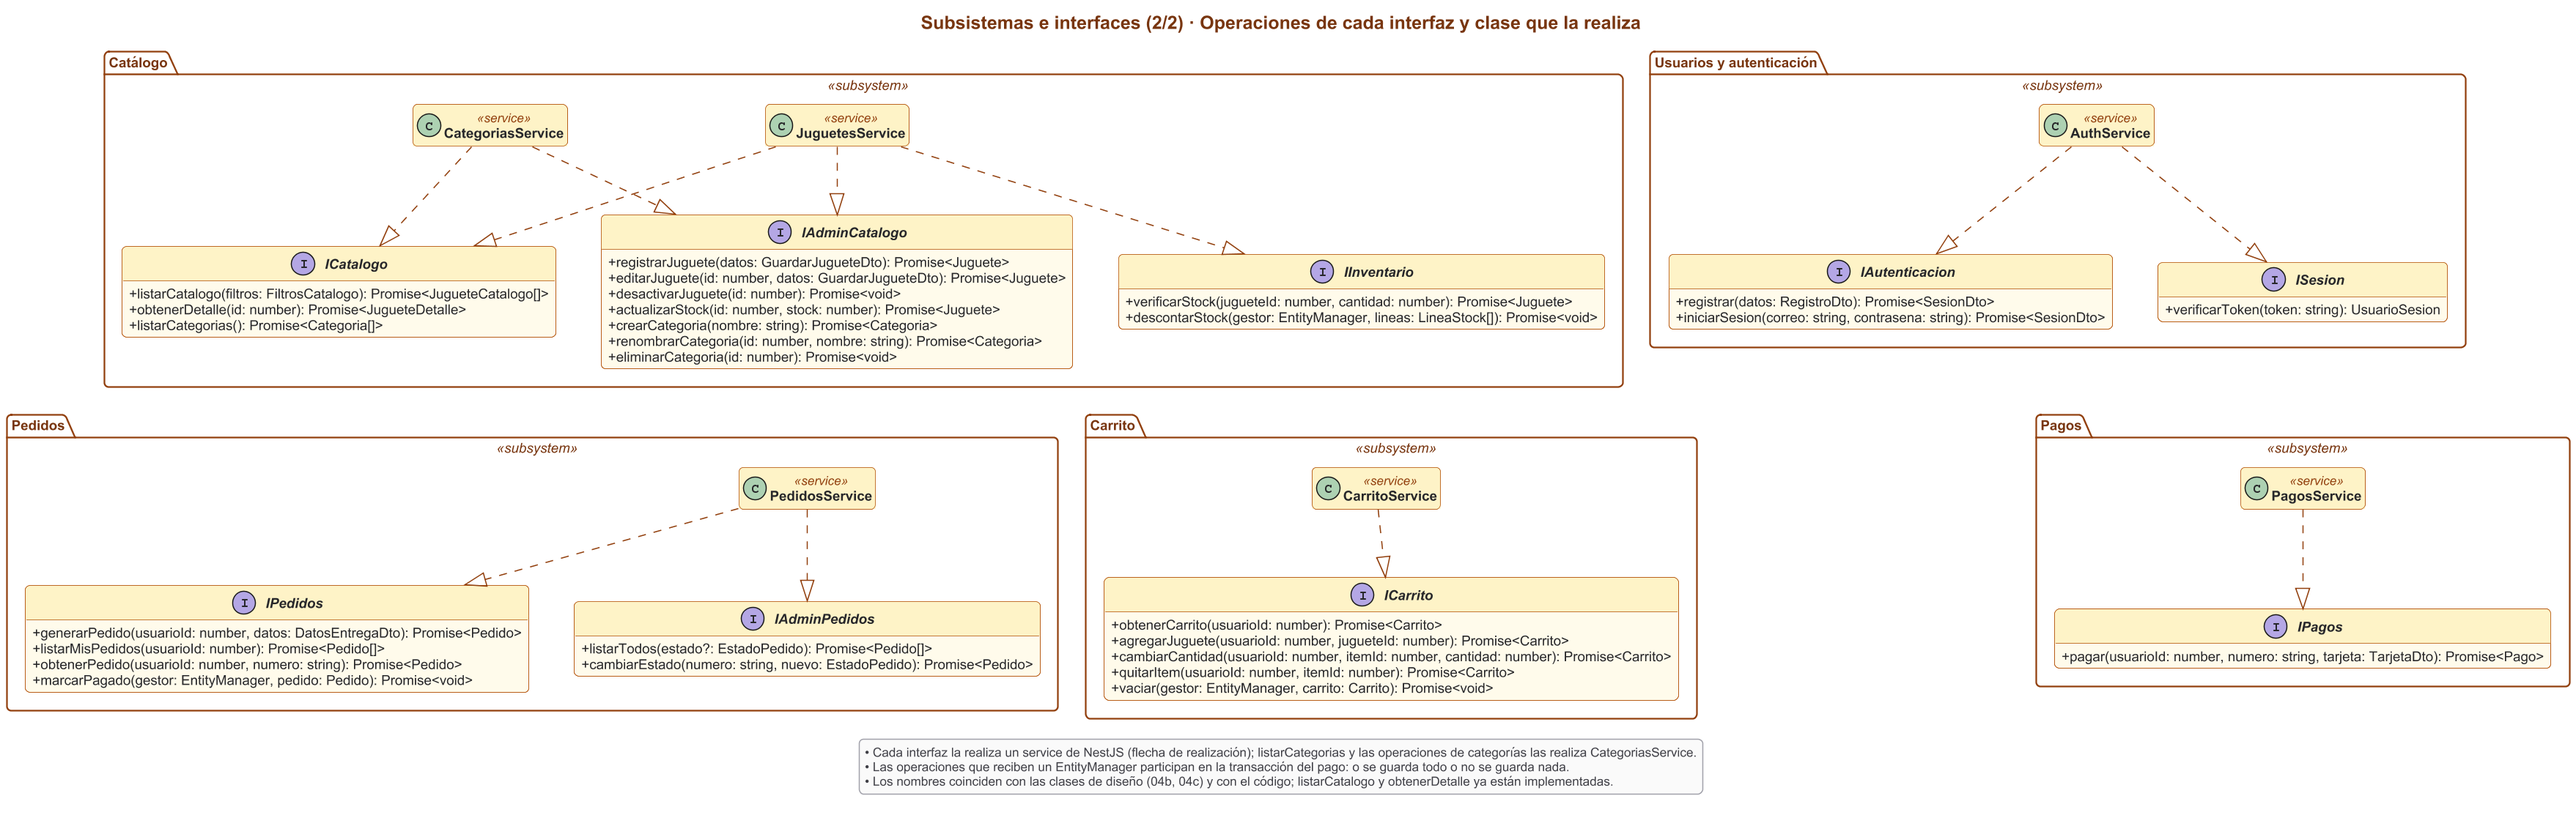
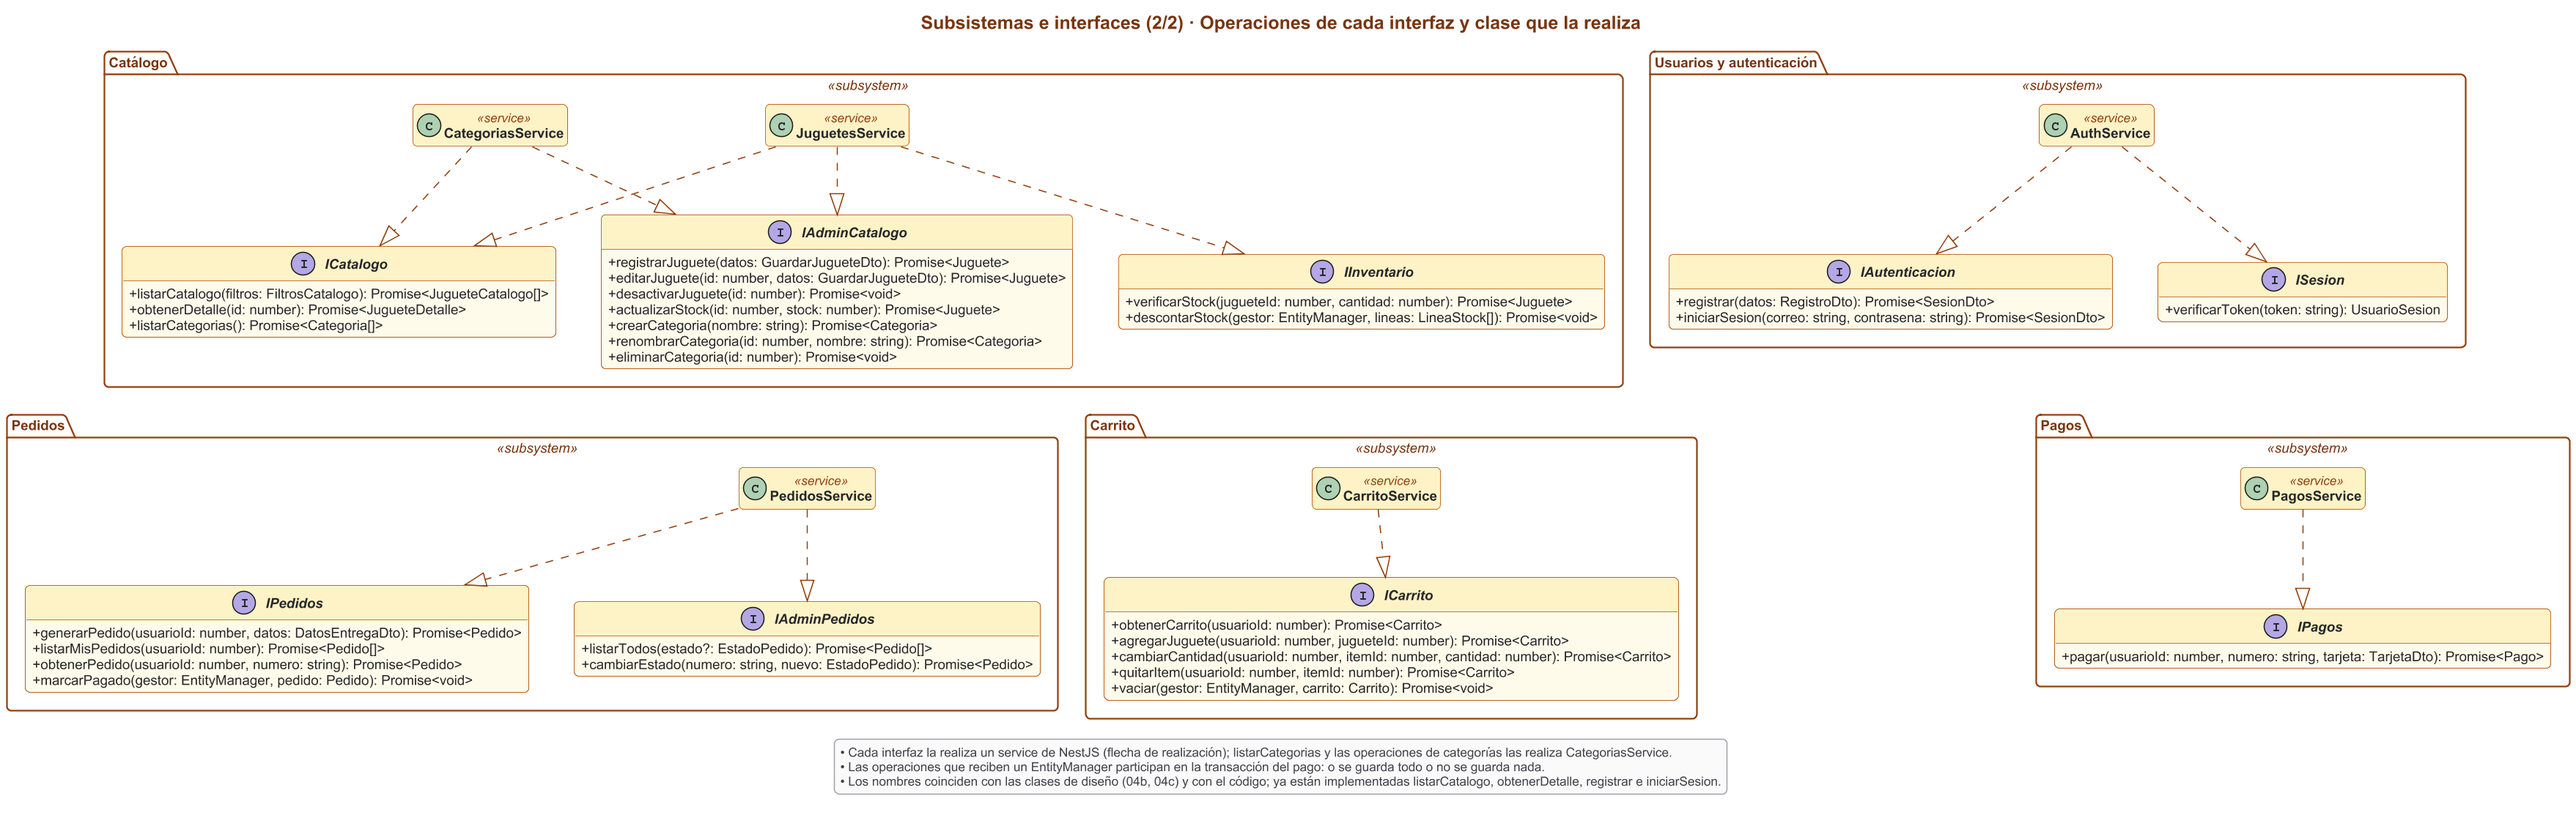
ETF-11 agrega el inicio de sesión en la API (POST /auth/inicio-sesion)
- AuthService.iniciarSesion compara la contraseña con bcrypt y devuelve
  la misma sesión que el registro (JWT de 7 días y datos públicos).
- Correo sin cuenta o contraseña incorrecta: 401 con el mismo mensaje,
  «Correo o contraseña incorrectos». Si el correo no existe se compara
  igual contra un hash de relleno, para que la respuesta tarde lo mismo.
- UsuariosService.buscarConContrasena es la única consulta que lee el
  hash (la columna tiene select: false).
- InicioSesionDto: correo en minúsculas y obligatorio; contraseña
  obligatoria, sin recortar y sin largo mínimo.
- Diagramas 04b y 05b actualizados con buscarConContrasena y con lo ya
  implementado. 10 pruebas nuevas (44 en total).

Changed region(s): [[0.3101, 0.9164, 0.6822, 0.9775]]

diff --git a/backend/src/auth/auth.service.spec.ts b/backend/src/auth/auth.service.spec.ts
@@ -1,11 +1,15 @@
-import { ConflictException } from '@nestjs/common';
+import { ConflictException, UnauthorizedException } from '@nestjs/common';
 import { JwtService } from '@nestjs/jwt';
 import { Test, type TestingModule } from '@nestjs/testing';
-import { compare } from 'bcryptjs';
+import { compare, hash } from 'bcryptjs';
 import type { Usuario } from '../usuarios/entities/usuario.entity.js';
 import { Rol } from '../usuarios/enums/rol.enum.js';
 import { UsuariosService } from '../usuarios/usuarios.service.js';
-import { AuthService, CORREO_REGISTRADO } from './auth.service.js';
+import {
+  AuthService,
+  CORREO_REGISTRADO,
+  CREDENCIALES_INCORRECTAS,
+} from './auth.service.js';
 import type { RegistroDto } from './dto/registro.dto.js';
 
 const SECRETO = 'clave-de-prueba-de-al-menos-32-caracteres';
@@ -102,5 +106,92 @@ describe('AuthService.registrar', () => {
     usuariosService.crearCliente.mockRejectedValue(new Error('sin conexión'));
 
     await expect(servicio.registrar(datos)).rejects.toThrow('sin conexión');
+  });
+});
+
+describe('AuthService.iniciarSesion', () => {
+  const CONTRASENA = 'trompo-de-prueba';
+  let servicio: AuthService;
+  let cliente: Usuario;
+  const usuariosService = { buscarConContrasena: vi.fn() };
+
+  /** Devuelve el error con el que falla el intento, para comparar las respuestas. */
+  async function rechazo(correo: string, contrasena: string) {
+    try {
+      await servicio.iniciarSesion(correo, contrasena);
+    } catch (error) {
+      return error as UnauthorizedException;
+    }
+    throw new Error('Se esperaba que el inicio de sesión fallara');
+  }
+
+  beforeAll(async () => {
+    cliente = {
+      id: 7,
+      nombre: 'Begoña Ñahui Ávila',
+      correo: 'begona.nahui@correo.pe',
+      contrasenaHash: await hash(CONTRASENA, 10),
+      rol: Rol.CLIENTE,
+      creadoEn: new Date(),
+    };
+  });
+
+  beforeEach(async () => {
+    usuariosService.buscarConContrasena
+      .mockReset()
+      .mockImplementation((correo: string) =>
+        Promise.resolve(correo === cliente.correo ? cliente : null),
+      );
+
+    const modulo: TestingModule = await Test.createTestingModule({
+      providers: [
+        AuthService,
+        { provide: UsuariosService, useValue: usuariosService },
+        { provide: JwtService, useValue: new JwtService({ secret: SECRETO }) },
+      ],
+    }).compile();
+
+    servicio = modulo.get(AuthService);
+  });
+
+  it('con el correo y la contraseña correctos devuelve la sesión, sin el hash', async () => {
+    const sesion = await servicio.iniciarSesion(cliente.correo, CONTRASENA);
+
+    expect(sesion.usuario).toEqual({
+      id: 7,
+      nombre: 'Begoña Ñahui Ávila',
+      correo: 'begona.nahui@correo.pe',
+      rol: Rol.CLIENTE,
+    });
+    expect(JSON.stringify(sesion)).not.toContain('$2');
+    const contenido = new JwtService({ secret: SECRETO }).verify<{ sub: number }>(
+      sesion.token,
+    );
+    expect(contenido.sub).toBe(7);
+  });
+
+  it('con una contraseña incorrecta responde 401 «Correo o contraseña incorrectos»', async () => {
+    const error = await rechazo(cliente.correo, 'otra-contrasena');
+
+    expect(error).toBeInstanceOf(UnauthorizedException);
+    expect(error.message).toBe(CREDENCIALES_INCORRECTAS);
+  });
+
+  it('distingue mayúsculas en la contraseña', async () => {
+    const error = await rechazo(cliente.correo, CONTRASENA.toUpperCase());
+
+    expect(error).toBeInstanceOf(UnauthorizedException);
+  });
+
+  it('si el correo no tiene cuenta responde exactamente lo mismo que con una contraseña incorrecta', async () => {
+    const sinCuenta = await rechazo('nadie@correo.pe', CONTRASENA);
+    const contrasenaIncorrecta = await rechazo(cliente.correo, 'otra-contrasena');
+
+    expect(sinCuenta).toBeInstanceOf(UnauthorizedException);
+    expect(sinCuenta.getResponse()).toEqual(contrasenaIncorrecta.getResponse());
+    expect(sinCuenta.getResponse()).toEqual({
+      statusCode: 401,
+      message: CREDENCIALES_INCORRECTAS,
+    });
   });
 });

diff --git a/backend/src/auth/dto/inicio-sesion.dto.spec.ts b/backend/src/auth/dto/inicio-sesion.dto.spec.ts
@@ -1,0 +1,78 @@
+import { BadRequestException } from '@nestjs/common';
+import { crearPipeValidacion } from '../../config/pipe-validacion.js';
+import { InicioSesionDto } from './inicio-sesion.dto.js';
+
+/** Pasa el cuerpo por el mismo pipe de validación que usa la API. */
+async function validar(cuerpo: unknown): Promise<InicioSesionDto> {
+  return (await crearPipeValidacion().transform(cuerpo, {
+    type: 'body',
+    metatype: InicioSesionDto,
+  })) as InicioSesionDto;
+}
+
+/** Devuelve los mensajes por campo de la respuesta 400. */
+async function errores(cuerpo: unknown): Promise<Record<string, string>> {
+  try {
+    await validar(cuerpo);
+  } catch (error) {
+    expect(error).toBeInstanceOf(BadRequestException);
+    return (
+      (error as BadRequestException).getResponse() as {
+        errores: Record<string, string>;
+      }
+    ).errores;
+  }
+  throw new Error('Se esperaba un error de validación');
+}
+
+describe('InicioSesionDto', () => {
+  it('pasa el correo a minúsculas sin espacios y deja la contraseña tal cual', async () => {
+    const dto = await validar({
+      correo: '  BEGONA.Nahui@Correo.PE ',
+      contrasena: ' clave con espacios ',
+    });
+
+    expect(dto).toEqual({
+      correo: 'begona.nahui@correo.pe',
+      contrasena: ' clave con espacios ',
+    });
+  });
+
+  it('pide completar los campos vacíos', async () => {
+    expect(await errores({ correo: '   ', contrasena: '' })).toEqual({
+      correo: 'Ingresa tu correo',
+      contrasena: 'Ingresa tu contraseña',
+    });
+  });
+
+  it('pide completar los campos que no llegan', async () => {
+    expect(await errores({})).toEqual({
+      correo: 'Ingresa tu correo',
+      contrasena: 'Ingresa tu contraseña',
+    });
+  });
+
+  it('avisa si el correo no tiene forma de correo', async () => {
+    expect(
+      await errores({ correo: 'begona@correo', contrasena: 'algo' }),
+    ).toEqual({
+      correo: 'Ingresa un correo válido, por ejemplo nombre@correo.com',
+    });
+  });
+
+  it('no exige un largo mínimo de contraseña: eso solo se revisa al registrarse', async () => {
+    const dto = await validar({ correo: 'a@correo.pe', contrasena: 'corta' });
+
+    expect(dto.contrasena).toBe('corta');
+  });
+
+  it('descarta los campos que no son del formulario', async () => {
+    const dto = await validar({
+      correo: 'a@correo.pe',
+      contrasena: 'clave segura',
+      rol: 'ADMINISTRADOR',
+    });
+
+    expect(dto).not.toHaveProperty('rol');
+  });
+});

diff --git a/backend/src/auth/auth.service.ts b/backend/src/auth/auth.service.ts
@@ -1,6 +1,10 @@
-import { ConflictException, Injectable } from '@nestjs/common';
+import {
+  ConflictException,
+  Injectable,
+  UnauthorizedException,
+} from '@nestjs/common';
 import { JwtService } from '@nestjs/jwt';
-import { hash } from 'bcryptjs';
+import { compare, hash, hashSync } from 'bcryptjs';
 import type { Usuario } from '../usuarios/entities/usuario.entity.js';
 import { UsuariosService } from '../usuarios/usuarios.service.js';
 import type { RegistroDto } from './dto/registro.dto.js';
@@ -10,6 +14,15 @@ import type { SesionDto, UsuarioPublico } from './sesion.js';
 const COSTO_BCRYPT = 10;
 
 export const CORREO_REGISTRADO = 'Este correo ya está registrado';
+
+/** Mismo mensaje si el correo no existe o si la contraseña no coincide: no revela cuál de los dos falló. */
+export const CREDENCIALES_INCORRECTAS = 'Correo o contraseña incorrectos';
+
+/**
+ * Si el correo no existe, la contraseña se compara igual contra este hash de relleno.
+ * Así la respuesta tarda lo mismo en los dos casos y nadie puede averiguar qué correos tienen cuenta.
+ */
+const HASH_DE_RELLENO = hashSync('relleno-para-igualar-tiempos', COSTO_BCRYPT);
 
 /** Código de PostgreSQL para una restricción UNIQUE violada. */
 const VIOLACION_UNICA = '23505';
@@ -72,6 +85,29 @@ export class AuthService {
       throw error;
     }
 
+    return this.crearSesion(usuario);
+  }
+
+  /**
+   * Inicia la sesión con el correo y la contraseña (HU-04). Si el correo no existe o la
+   * contraseña no coincide, responde 401 con el mismo mensaje genérico.
+   */
+  async iniciarSesion(correo: string, contrasena: string): Promise<SesionDto> {
+    const usuario = await this.usuariosService.buscarConContrasena(correo);
+    const coincide = await compare(
+      contrasena,
+      usuario?.contrasenaHash ?? HASH_DE_RELLENO,
+    );
+    if (!usuario || !coincide) {
+      throw new UnauthorizedException({
+        statusCode: 401,
+        message: CREDENCIALES_INCORRECTAS,
+      });
+    }
+    return this.crearSesion(usuario);
+  }
+
+  private crearSesion(usuario: Usuario): SesionDto {
     return { token: this.firmarToken(usuario), usuario: aUsuarioPublico(usuario) };
   }
 

diff --git a/backend/src/auth/auth.controller.ts b/backend/src/auth/auth.controller.ts
@@ -1,5 +1,6 @@
-import { Body, Controller, Post } from '@nestjs/common';
+import { Body, Controller, HttpCode, HttpStatus, Post } from '@nestjs/common';
 import { AuthService } from './auth.service.js';
+import { InicioSesionDto } from './dto/inicio-sesion.dto.js';
 import { RegistroDto } from './dto/registro.dto.js';
 import type { SesionDto } from './sesion.js';
 
@@ -14,5 +15,15 @@ export class AuthController {
   @Post('registro')
   registrar(@Body() datos: RegistroDto): Promise<SesionDto> {
     return this.authService.registrar(datos);
+  }
+
+  /**
+   * Inicio de sesión (HU-04). Responde 200 con la sesión, 400 si falta un campo
+   * o 401 «Correo o contraseña incorrectos» si no coinciden con una cuenta.
+   */
+  @Post('inicio-sesion')
+  @HttpCode(HttpStatus.OK)
+  iniciarSesion(@Body() datos: InicioSesionDto): Promise<SesionDto> {
+    return this.authService.iniciarSesion(datos.correo, datos.contrasena);
   }
 }

diff --git a/backend/src/auth/dto/inicio-sesion.dto.ts b/backend/src/auth/dto/inicio-sesion.dto.ts
@@ -1,0 +1,24 @@
+import { Transform } from 'class-transformer';
+import { IsEmail, IsNotEmpty, IsString } from 'class-validator';
+import { normalizarCorreo } from './normalizar.js';
+
+/**
+ * Datos del formulario de inicio de sesión (HU-04, CU-05 Iniciar sesión).
+ * Solo se revisa que estén completos y que el correo tenga forma de correo:
+ * si no coinciden con una cuenta, la respuesta es el mensaje genérico de AuthService.
+ */
+export class InicioSesionDto {
+  @Transform(normalizarCorreo)
+  @IsString({ message: 'Ingresa tu correo' })
+  @IsNotEmpty({ message: 'Ingresa tu correo' })
+  @IsEmail(
+    {},
+    { message: 'Ingresa un correo válido, por ejemplo nombre@correo.com' },
+  )
+  correo: string;
+
+  /** No se recorta: los espacios también cuentan en una contraseña. */
+  @IsString({ message: 'Ingresa tu contraseña' })
+  @IsNotEmpty({ message: 'Ingresa tu contraseña' })
+  contrasena: string;
+}

diff --git a/backend/src/usuarios/usuarios.service.ts b/backend/src/usuarios/usuarios.service.ts
@@ -16,6 +16,23 @@ export class UsuariosService {
     return this.usuarios.findOneBy({ correo });
   }
 
+  /**
+   * Igual que buscarPorCorreo, pero también lee el hash de la contraseña, que las demás
+   * consultas no traen. Solo lo usa el inicio de sesión para comparar la contraseña.
+   */
+  buscarConContrasena(correo: string): Promise<Usuario | null> {
+    return this.usuarios.findOne({
+      where: { correo },
+      select: {
+        id: true,
+        nombre: true,
+        correo: true,
+        rol: true,
+        contrasenaHash: true,
+      },
+    });
+  }
+
   /** Crea una cuenta con el rol CLIENTE. La contraseña llega ya cifrada con bcrypt. */
   crearCliente(
     nombre: string,

diff --git a/backend/src/auth/dto/registro.dto.ts b/backend/src/auth/dto/registro.dto.ts
@@ -6,16 +6,7 @@ import {
   MaxLength,
   MinLength,
 } from 'class-validator';
-
-/** Recorta los espacios de los extremos. */
-function recortar({ value }: { value: unknown }): unknown {
-  return typeof value === 'string' ? value.trim() : value;
-}
-
-/** El correo se guarda en minúsculas, así «Ana@Correo.pe» y «ana@correo.pe» son la misma cuenta. */
-function normalizarCorreo({ value }: { value: unknown }): unknown {
-  return typeof value === 'string' ? value.trim().toLowerCase() : value;
-}
+import { normalizarCorreo, recortar } from './normalizar.js';
 
 /** Datos del formulario de registro (HU-03, CU-04 Registrarse). */
 export class RegistroDto {

diff --git a/backend/src/auth/dto/normalizar.ts b/backend/src/auth/dto/normalizar.ts
@@ -1,0 +1,9 @@
+/** Recorta los espacios de los extremos. */
+export function recortar({ value }: { value: unknown }): unknown {
+  return typeof value === 'string' ? value.trim() : value;
+}
+
+/** El correo se guarda en minúsculas, así «Ana@Correo.pe» y «ana@correo.pe» son la misma cuenta. */
+export function normalizarCorreo({ value }: { value: unknown }): unknown {
+  return typeof value === 'string' ? value.trim().toLowerCase() : value;
+}

diff --git a/docs/uml/README.md b/docs/uml/README.md
@@ -79,7 +79,8 @@ Tres vistas: el modelo de dominio (entidades de TypeORM) y los controllers y ser
 - **Controller + service.** Cada módulo de NestJS tiene un controller, que expone las rutas HTTP, y un service, que aplica las reglas del negocio usando el `Repository` de TypeORM.
 - **Seguridad.** `JwtAuthGuard` identifica al usuario a partir del JWT, y `RolesGuard` deja pasar solo al rol ADMINISTRADOR. El `usuarioId` siempre sale del token, nunca del cuerpo de la petición.
 - **Pago en una transacción.** `PagosService.pagar()` valida la tarjeta, verifica el stock, guarda el `Pago`, descuenta el stock y marca el pedido como Pagado en una sola transacción.
-- **Ya implementado.** `JuguetesController` y `JuguetesService` con `listarCatalogo` y `obtenerDetalle` (HU-01, HU-02). El resto de nombres guía las próximas historias.
+- **Ya implementado.** `JuguetesController` y `JuguetesService` con `listarCatalogo` y `obtenerDetalle` (HU-01, HU-02); `AuthController`, `AuthService` y `UsuariosService` con `registrar` (HU-03) e `iniciarSesion` (HU-04). El resto de nombres guía las próximas historias.
+- **El hash no sale de la base de datos.** La columna `contrasena_hash` tiene `select: false`: solo `UsuariosService.buscarConContrasena` la lee, y solo para el inicio de sesión.
 
 ## 5. Subsistemas con interfaces
 

diff --git a/backend/README.md b/backend/README.md
@@ -65,3 +65,4 @@ En el plan gratuito, el servicio se suspende tras 15 minutos sin visitas; la pri
 | `GET /juguetes` | Catálogo: juguetes activos con su categoría, ordenados por nombre. `agotado` es `true` cuando el stock es 0 |
 | `GET /juguetes/:id` | Detalle de un juguete activo, con su descripción. Responde 404 «Juguete no encontrado» si no existe, está desactivado o el id no es un número |
 | `POST /auth/registro` | Registra un cliente con `nombre`, `correo` y `contrasena` (8 caracteres o más). Responde 201 con `{ token, usuario }` (sesión iniciada), 400 con `errores` por campo o 409 «Este correo ya está registrado». El correo se guarda en minúsculas y la contraseña cifrada con bcrypt |
+| `POST /auth/inicio-sesion` | Inicia sesión con `correo` y `contrasena`. Responde 200 con `{ token, usuario }`, 400 con `errores` por campo si falta un dato, o 401 «Correo o contraseña incorrectos», el mismo mensaje si el correo no existe o si la contraseña no coincide |
